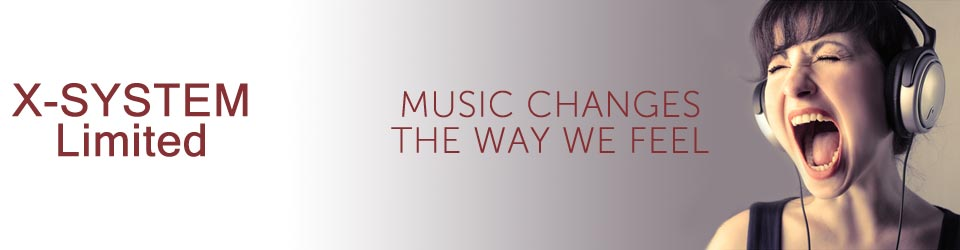
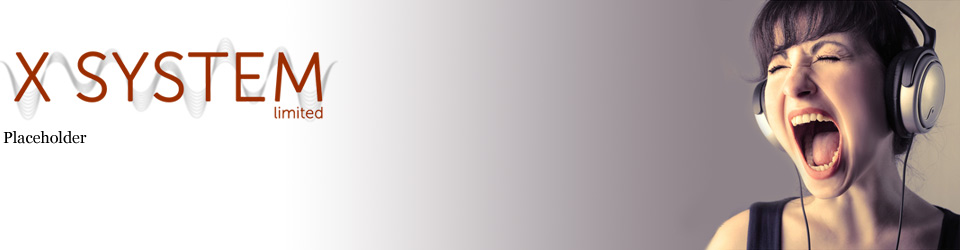
X-system added

Changed region(s): [[0.0, 0.168, 0.3438, 0.644], [0.4062, 0.504, 0.75, 0.616], [0.4062, 0.364, 0.75, 0.476]]

diff --git a/mhnweb/templates/index.html b/mhnweb/templates/index.html
@@ -41,7 +41,10 @@
          </li>
          {% endcomment %}
          <li>
-            <a href="case-studies/islandgis"><img src="{{ MEDIA_URL }}uploads/banner_08.jpg" alt="IslandGIS" /></a>
+            <a href="case-studies/island-gis"><img src="{{ MEDIA_URL }}uploads/banner_08.jpg" alt="IslandGIS" /></a>
+         </li>
+         <li>
+            <a href="case-studies/x-system"><img src="{{ MEDIA_URL }}uploads/banner_09.jpg" alt="X-System" /></a>
          </li>
         </ul>
         <!-- end Basic jQuery Slider -->
